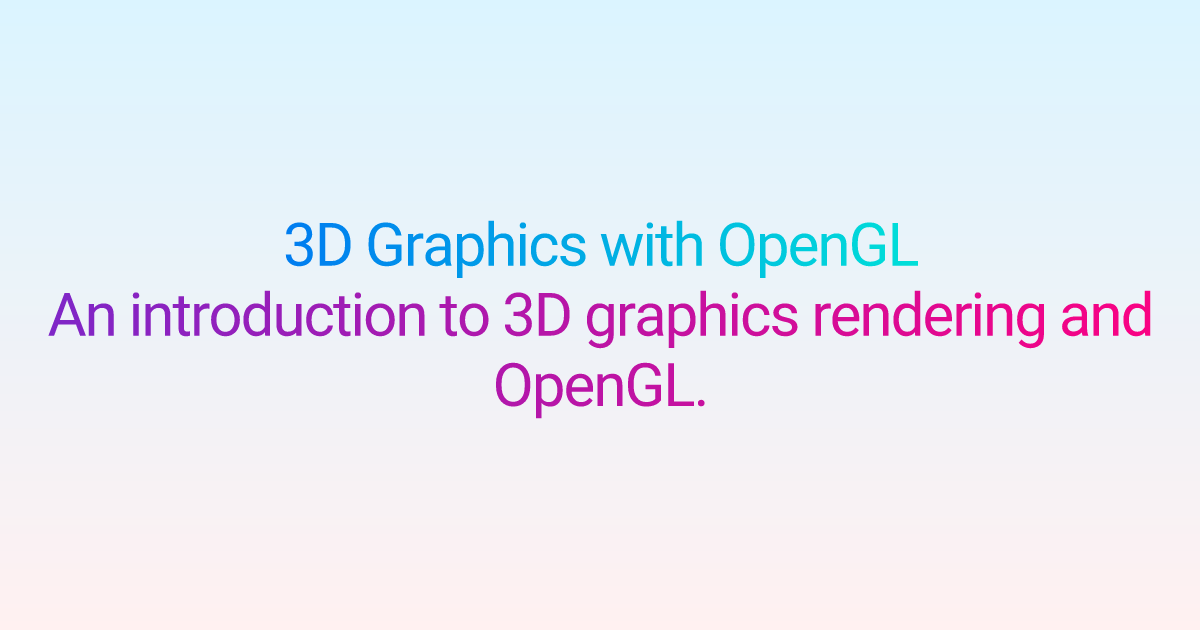
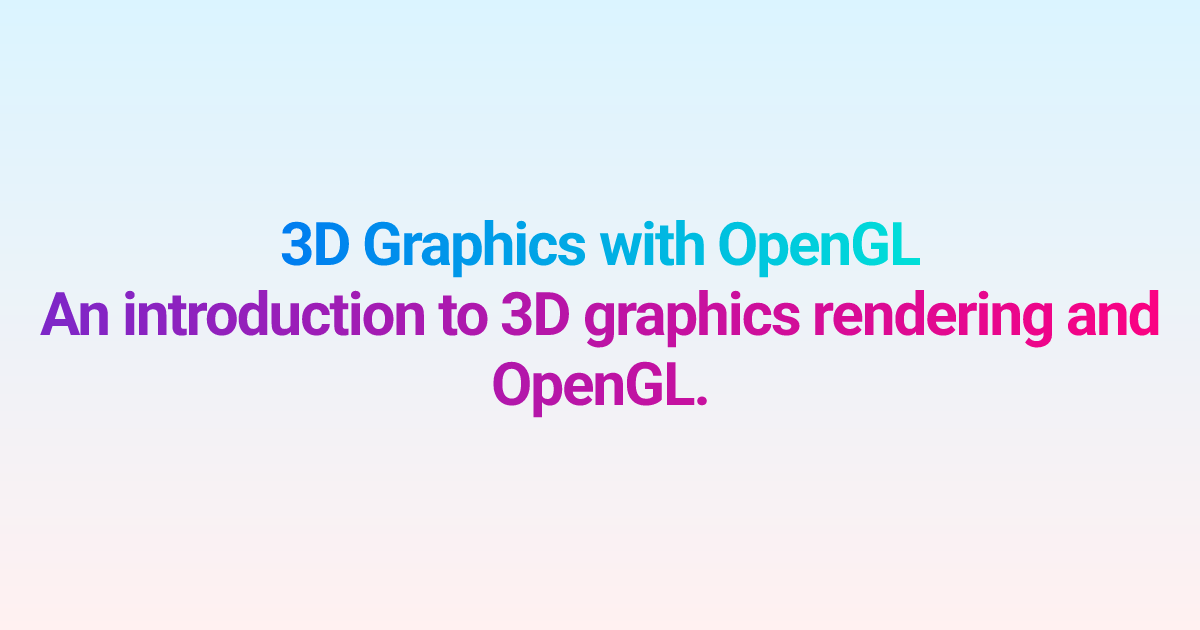
chore(deps): small dependency bumps and Satori 0.63 for OG renderers
Why
Pass 2 of the dependency refresh: bring the remaining small npm/crate bumps
and the two Satori stragglers (storm-theme 0.33, astro-opengraph-images 0.47)
to the newest versions within their majors.

What
- fast-xml-parser 5.12.1, js-yaml 5.5.0, devalue 6.0.4, fast-uri 4.2.4,
  mysql2 3.24.6, postcss 8.5.33, effect 3.22.5, modern-tar 0.8.6.
- react-router 8.5.3 where it lints clean; react 19.3.1 in the OG examples;
  @types/react 19.3.3 exact pins; winsafe 0.0.29 in scout-desktop-ui.
- satori ^0.63.2 in storm-theme and astro-opengraph-images. Satori 0.49+
  synthesizes bold when the loaded face is lighter than requested, so the
  preset renderer and examples load real Roboto 700/900 faces. Brand social
  cards and preset README images regenerated.
- Held: react-router in tracker and media stays 8.4.0 (8.5 deprecates
  viewTransition/useViewTransitionState, lint fails; React's ViewTransition is
  experimental-only in 19.3). vec3 stays 0.1.x (0.2.0 Vec3 type is
  incompatible with mineflayer's 0.1.10). auditok stays 0.1.5 (ffsubsync 0.5.1
  pins ==0.1.5).

Verification
Focused turbo build/typecheck/test/lint on affected workspaces passes except
pre-existing toolkit branch-create timeout (reproduced on origin/main) and
media Postgres integration suite (environment, extended tier).

Changed region(s): [[0.0308, 0.4524, 0.9867, 0.573], [0.2158, 0.3317, 0.7708, 0.4524], [0.4008, 0.573, 0.5858, 0.6635]]

diff --git a/packages/astro-opengraph-images/src/presets/render-examples.ts b/packages/astro-opengraph-images/src/presets/render-examples.ts
@@ -36,16 +36,18 @@ async function renderExamples() {
   const options: SatoriOptions = {
     width: 1200,
     height: 630,
-    fonts: [
-      {
+    // Presets ask for weights 700 and 900; Satori 0.49+ synthesizes bold when
+    // the loaded face declares less than the requested weight, so load real faces.
+    fonts: await Promise.all(
+      ([400, 700, 900] as const).map(async (weight) => ({
         name: "Roboto",
-        weight: 400,
-        style: "normal",
+        weight,
+        style: "normal" as const,
         data: await fs.readFile(
-          "node_modules/@fontsource/roboto/files/roboto-latin-400-normal.woff",
+          `node_modules/@fontsource/roboto/files/roboto-latin-${String(weight)}-normal.woff`,
         ),
-      },
-    ],
+      })),
+    ),
   };
 
   const promises = Object.entries(presets).map(async ([name, preset]) => {
